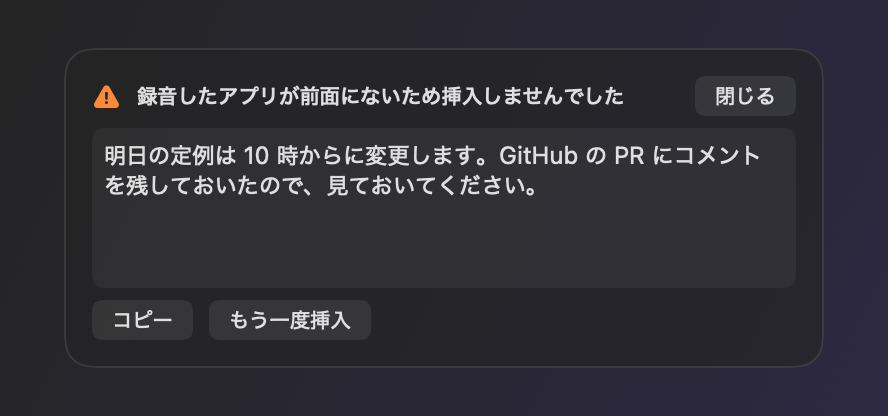
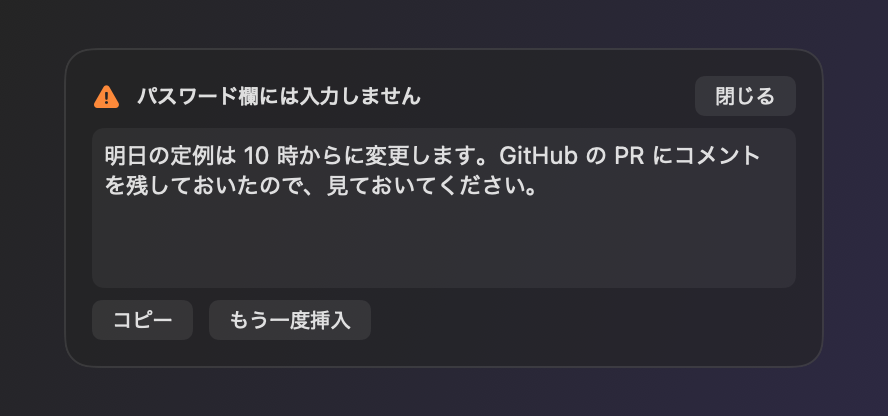
docs(screens): 説明書の HUD と設定画面の画像を今の文言で描き直す
レビューの指摘から。HUD の見本はパスワード欄の失敗に替え、設定画面の
説明文の太字が記号のまま出ていたのを直す。テストの警告も消す。

Refs #116
Closes #114

Changed region(s): [[0.152, 0.1875, 0.6993, 0.25]]

diff --git a/Sources/SettingsView.swift b/Sources/SettingsView.swift
@@ -218,11 +218,13 @@ struct GeneralSettingsView: View {
                         Text(retention.label).tag(retention)
                     }
                 }
-                Text("**どれを選んでも履歴には必ず残ります。**"
-                     + "クリップボードに残すのは、アクセシビリティ権限が無くて"
-                     + "挿入できなかったときだけです。"
-                     + "ターミナルのように結果を確認できないアプリでは、挿入は済んでいる可能性が高いので"
-                     + "クリップボードは元へ戻します。")
+                // `**…。**ク` は CommonMark の規則で閉じず ** がそのまま出るので、太字は Text で付ける。
+                Text("""
+                    \(Text("どれを選んでも履歴には必ず残ります。").bold())\
+                    クリップボードに残すのは、アクセシビリティ権限が無くて挿入できなかったときだけです。\
+                    ターミナルのように結果を確認できないアプリでは、挿入は済んでいる可能性が高いので\
+                    クリップボードは元へ戻します。
+                    """)
                     .font(.caption)
                     .foregroundStyle(.secondary)
                     .fixedSize(horizontal: false, vertical: true)

diff --git a/Tests/DocScreenshotsTests.swift b/Tests/DocScreenshotsTests.swift
@@ -56,8 +56,9 @@ struct DocScreenshotsTests {
             (0..<45).forEach { _ in model.push(level: 0) }
         }
         try await DocShots.renderHUD(name: "hud-result") { model in
-            let outcome = InsertionOutcome.failed(reason: "アクセシビリティ権限が無いため入力できません",
-                                                  hint: .accessibilityPermission)
+            // 説明書の「入れたい場所をクリックしてから『もう一度挿入』」が効く失敗を見本にする。
+            // 権限なしだと再挿入も通らず、「設定を開く」ボタンが増えて説明書の alt と合わなくなる。
+            let outcome = InsertionOutcome.failed(reason: "パスワード欄には入力しません", hint: .secureInput)
             model.status = .failed(reason: outcome.headline)
             model.pendingResult = .init(text: DocShots.sampleUtterance, title: outcome.headline,
                                         detail: outcome.detail, isFailure: true, note: nil, hint: outcome.hint)

diff --git a/Tests/TextInjectorClipboardTests.swift b/Tests/TextInjectorClipboardTests.swift
@@ -35,7 +35,7 @@ struct TextInjectorClipboardTests {
                     pasted.append(pasteboard.string(forType: .string))
                     Task { @MainActor [self] in
                         try? await Task.sleep(for: TextInjectorClipboardTests.lateReadDelay)
-                        lateReads.append(pasteboard.string(forType: .string))
+                        self.lateReads.append(self.pasteboard.string(forType: .string))
                     }
                     duringDeliver?()
                     // 本物は 350ms 以上待って判定する。ここでも中断点を挟む。
